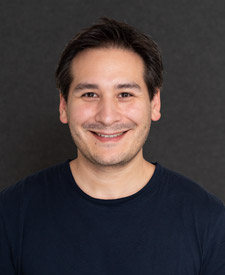
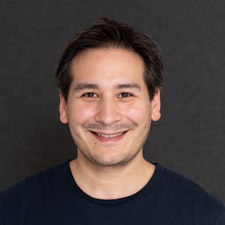
Add Mike's face

Changed region(s): [[0.2489, 0.0622, 1.0, 0.9333], [0.0, 0.6222, 0.2489, 0.84]]

diff --git a/index.html b/index.html
@@ -39,7 +39,7 @@
   </div>
 </div>
 <div class="profpic-1">
-  <img src="Generic.png" alt="Michael" class="profpic">
+  <img src="michael-plenert-headshot.jpg" alt="Michael" class="profpic">
   <div class="overlay">
     <div><h5>Michael Plenert (s3807909)</h5><br>Michael Plenert is a Canadian who’s been living in Australia for the last three years. Over the last eighteen years, Michael has been a computer tech (starting on NT4.0 and Windows 98SE) and at times also worked as a web designer/developer. Michael is currently interested in Java (because of RMIT) and MariaDB. His hobbies include photography, drawing, working on and with computers, and playing video games.</div>
   </div>
